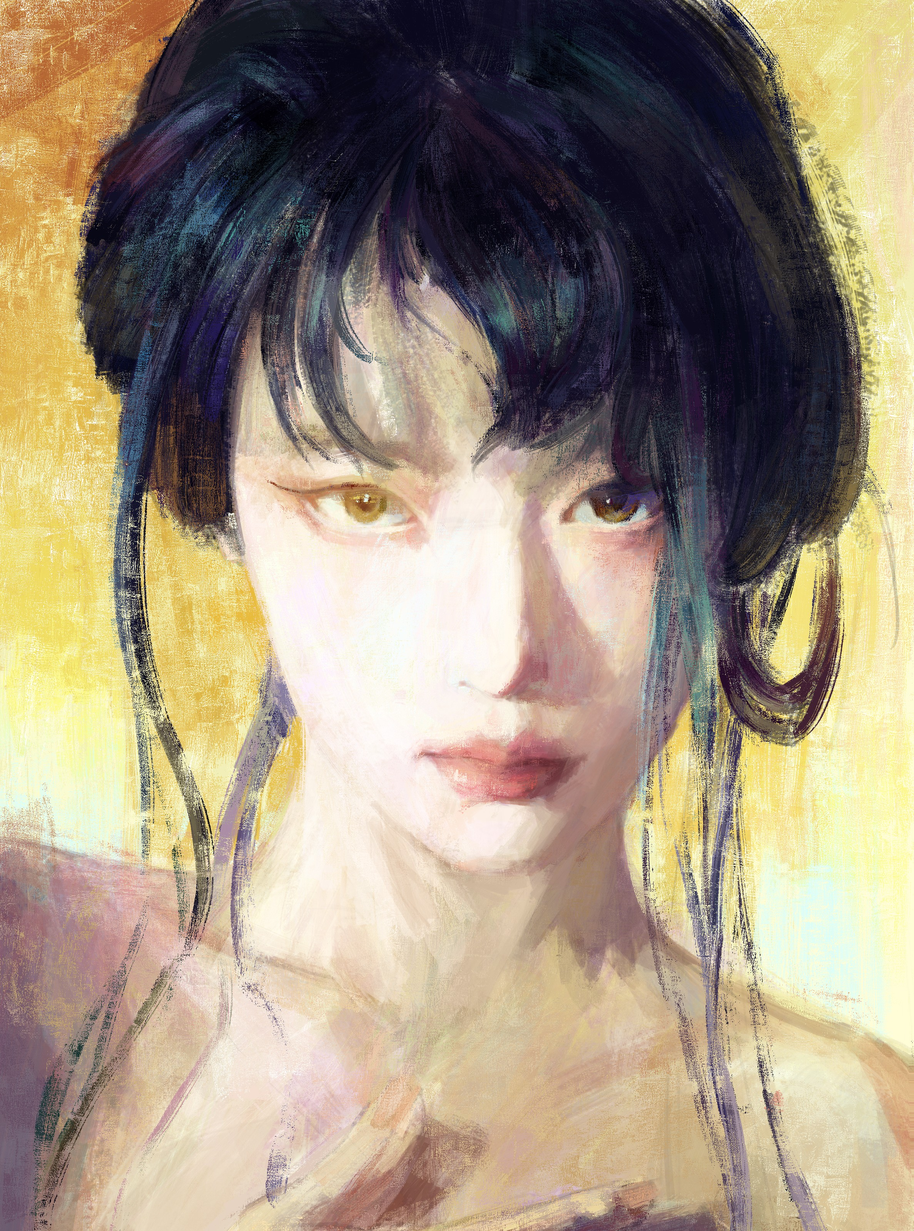
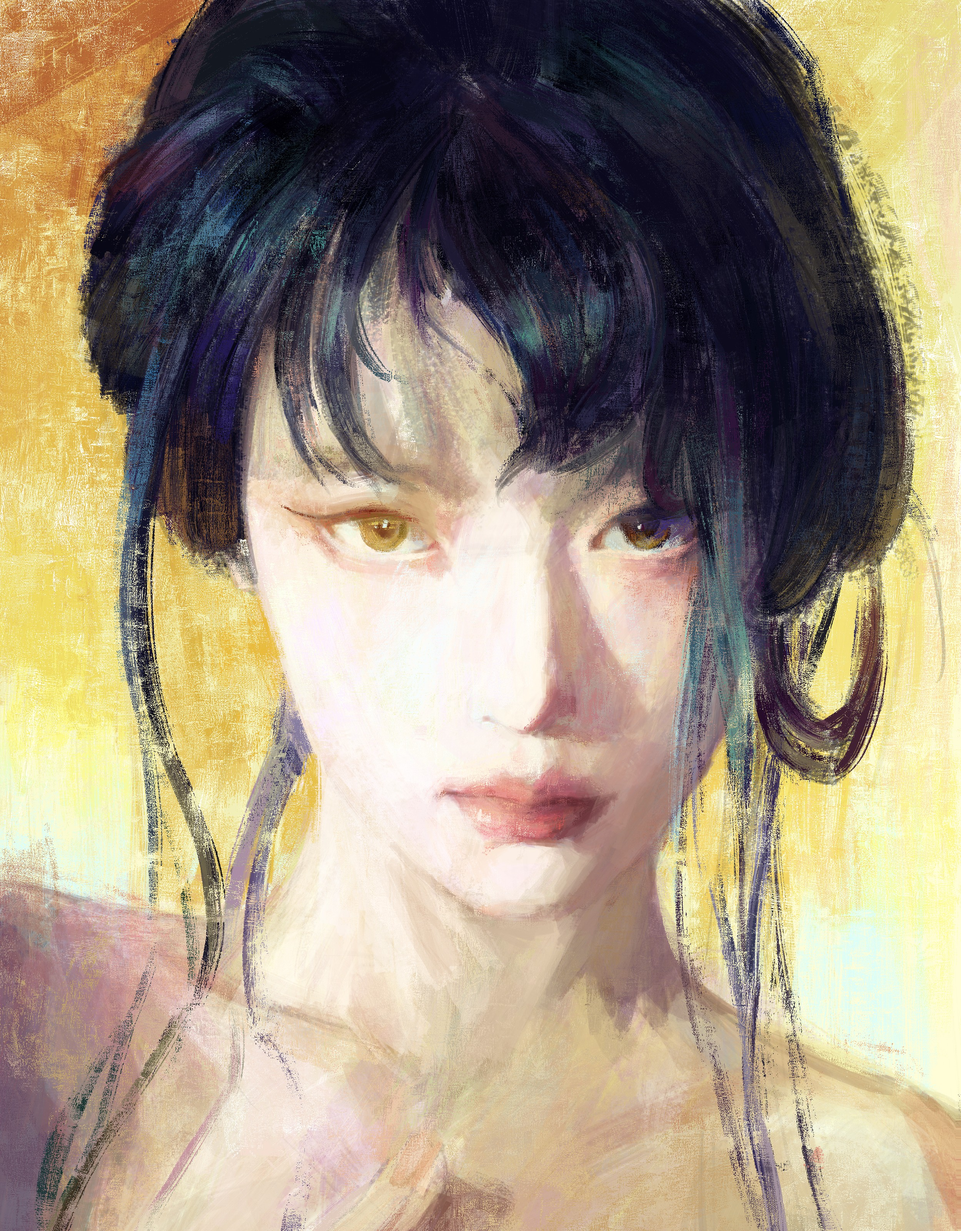
5号插画替换为更新版原图重转码，横幅同步重裁（眼睛居中）；忽略开发用素材目录

diff --git a/illustrations.html b/illustrations.html
@@ -34,7 +34,7 @@
         <div class="illus-grid" id="illusGrid">
           <img class="ill-item" src="./assets/illustrations/ill-thumb-03.jpg" data-full="./assets/illustrations/ill-full-03.jpg?v=3" alt="插画 01" />
           <img class="ill-item" src="./assets/illustrations/ill-thumb-06.jpg" data-full="./assets/illustrations/ill-full-06.jpg?v=3" alt="插画 02" />
-          <img class="ill-item" src="./assets/illustrations/ill-thumb-05.jpg" data-full="./assets/illustrations/ill-full-05.jpg?v=3" alt="插画 03" />
+          <img class="ill-item" src="./assets/illustrations/ill-thumb-05.jpg?v=2" data-full="./assets/illustrations/ill-full-05.jpg?v=4" alt="插画 03" />
           <img class="ill-item" src="./assets/illustrations/ill-thumb-02.jpg" data-full="./assets/illustrations/ill-full-02.jpg?v=3" alt="插画 04" />
           <img class="ill-item" src="./assets/illustrations/ill-thumb-04.jpg?v=2" data-full="./assets/illustrations/ill-full-04.jpg?v=3" alt="插画 05" />
           <img class="ill-item" src="./assets/illustrations/ill-thumb-10.jpg" data-full="./assets/illustrations/ill-full-10.jpg?v=3" alt="插画 06" />

diff --git a/works.html b/works.html
@@ -122,7 +122,7 @@
         <section class="illus-entry">
           <h2 class="illus-entry-title">插画</h2>
           <a class="illus-entry-card" href="./illustrations.html">
-            <img src="./assets/illustrations/ill-banner-05.jpg?v=2" alt="插画板块入口" />
+            <img src="./assets/illustrations/ill-banner-05.jpg?v=3" alt="插画板块入口" />
             <div class="illus-entry-mask">
               <span class="illus-entry-label">查看全部插画</span>
             </div>
